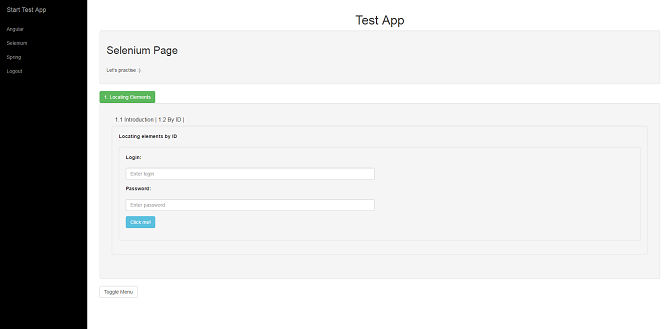
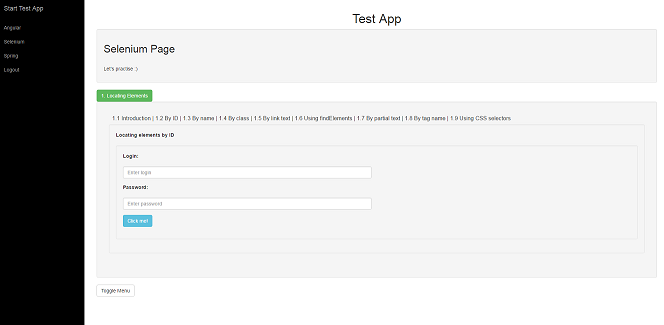
Selenium: 1.9 Created test method to find element using CSS selectors within ITLocatingElementsTest class
[Html]
+ added new view

[Angular]
+ added state for new view within route.js

[Selenium]
+ new test method for locating element on the page using CSS selectors

[Other]
+ changed images for selenium page

diff --git a/src/main/webapp/app/core/selenium/views/locating/selenium-locating-css.html b/src/main/webapp/app/core/selenium/views/locating/selenium-locating-css.html
@@ -1,0 +1,19 @@
+<div class="well" role="form">
+    <div class="form-group">
+        <label class="controls-pane">Locating elements using CSS selectors</label>
+    </div>
+    <form class="form-horizontal" role="form">
+        <div class="form-group">
+            <div class="col-sm-6">
+                <input class="form-control" name="username" id="login" type="text" placeholder="Enter login">
+            </div>
+        </div>
+    </form>
+    <img src="" class="img-responsive" alt="picture with alt">
+    <img src="" class="img-responsive">
+    <br>
+    <button type="button" class="btn btn-primary">Primary</button>
+    <div>
+        <input type="button" class="btn btn-success" value="ButtonValue">
+    </div>
+</div>

diff --git a/src/main/webapp/app.route.js b/src/main/webapp/app.route.js
@@ -167,6 +167,10 @@ appRoute
                         url: '/tagname',
                         templateUrl: 'app/core/selenium/views/locating/selenium-locating-tagname.html'
                     })
+                    .state('selenium.locating.css', {
+                        url: '/css',
+                        templateUrl: 'app/core/selenium/views/locating/selenium-locating-css.html'
+                    })
 
             // SPRING
             .state('spring', {

diff --git a/src/main/webapp/app/core/selenium/views/locating/selenium-locating.html b/src/main/webapp/app/core/selenium/views/locating/selenium-locating.html
@@ -18,6 +18,8 @@
                 <a ui-sref=".partialtext">1.7 By partial text</a>
                 |
                 <a ui-sref=".tagname">1.8 By tag name</a>
+                |
+                <a ui-sref=".css">1.9 Using CSS selectors</a>
             </h4>
             <div ui-view>
 

diff --git a/src/test/java/pl/wimiip/interfaceTests/tests/locating/ITLocatingElementsTest.java b/src/test/java/pl/wimiip/interfaceTests/tests/locating/ITLocatingElementsTest.java
@@ -139,6 +139,57 @@ public class ITLocatingElementsTest extends ITConfigurationForChromeBrowser {
         assertEquals(3, rows.size());
     }
 
+    @Test
+    public void usernameInput_LocatingElementsUsingCssSelectors_NothingResultsOnlyAsserts() {
+        assertTrue(wait.until(ExpectedConditions.urlContains("locating")));
+        wait.until(ExpectedConditions.visibilityOfElementLocated(By.partialLinkText("1.9"))).click();
+
+        // Finding elements with
+        // ABSOLUTE PATH
+        WebElement userName = driver.findElement(By.cssSelector("html body div div div div div div div div div div div div form div div input"));
+        // ... by describing the direct parent to child relationships with > separator
+        userName = driver.findElement(By.cssSelector("html > body > div > div > div > div > div > div > div > div > div > div > div > div > form > div > div > input"));
+
+        // Finding elements with
+        // RELATIVE PATH
+        userName = driver.findElement(By.cssSelector("input"));
+
+        // Finding elements
+        // USING THE CLASS SELECTOR
+        WebElement loginButton = driver.findElement(By.cssSelector("input.form-control"));
+
+        // ... there is also shortcut but this will return all the elements with class as form-control and the test may not return the correct element.
+        loginButton = driver.findElement(By.cssSelector(".form-control"));
+
+        // Finding elements
+        // USING ID SELECTOR
+        userName = driver.findElement(By.cssSelector("input#login"));
+
+        // ... there is also shortcut but this will return all the elements with id as login and the test may not return the correct element.
+        userName = driver.findElement(By.cssSelector("#login"));
+
+        // Finding elements
+        // USING ATTRIBUTES SELECTOR
+        userName = driver.findElement(By.cssSelector("input[name=username]"));
+
+        // ... locating of the <img> element by using alt attribute
+        WebElement picture = driver.findElement(By.cssSelector("img[alt='picture with alt']"));
+
+        // MULTIPLE ATTRIBUTES
+        WebElement valueButton = driver.findElement(By.cssSelector("input[type='button'][value='ButtonValue']"));
+
+        // Finding elements
+        // USING ATTRIBUTES NAME SELECTOR
+
+        // to lookup all the <img> elements which have alt attribute
+        List<WebElement> imagesWithAlt = driver.findElements(By.cssSelector("img[alt]"));
+        assertEquals(1, imagesWithAlt.size());
+
+        // A Boolean not() pseudo-class can also be used to locate elements not matching the specified criteria.
+        List<WebElement> imagesWithoutAlt = driver.findElements(By.cssSelector("img:not([alt])"));
+        assertEquals(1, imagesWithoutAlt.size());
+    }
+
     @After
     public void tearDown() {
         System.out.println("Cleaning after " + name.getMethodName());
